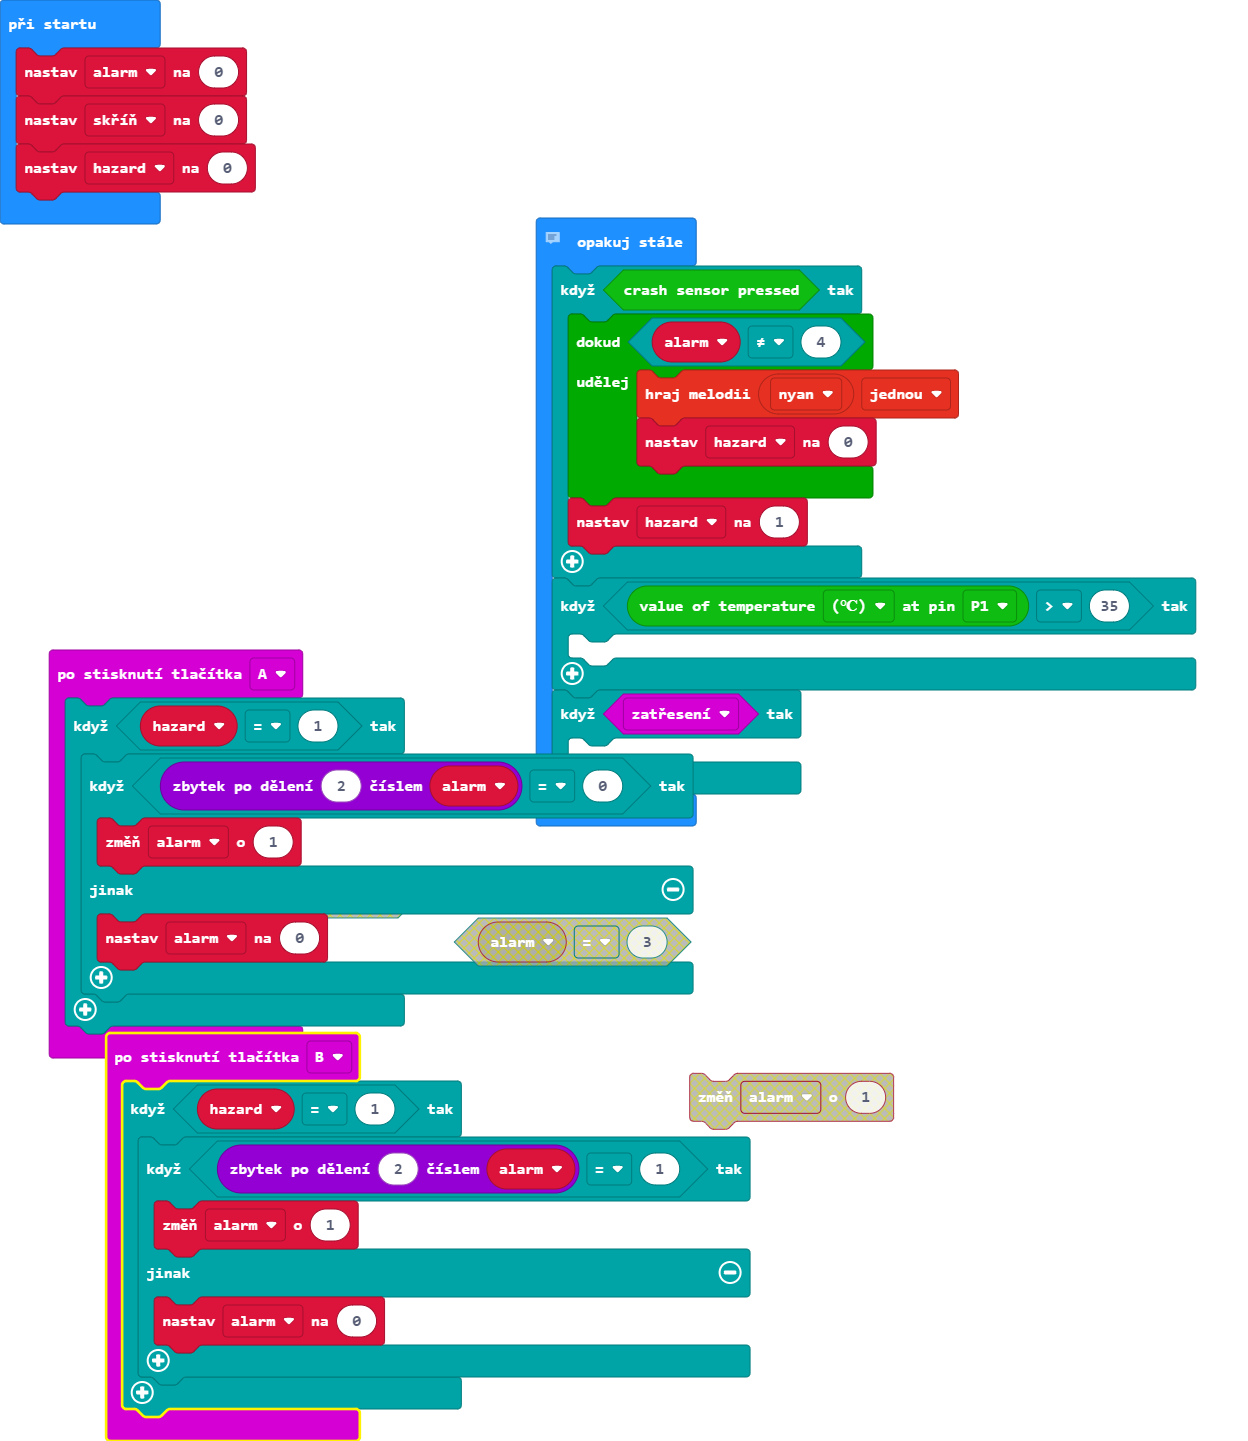
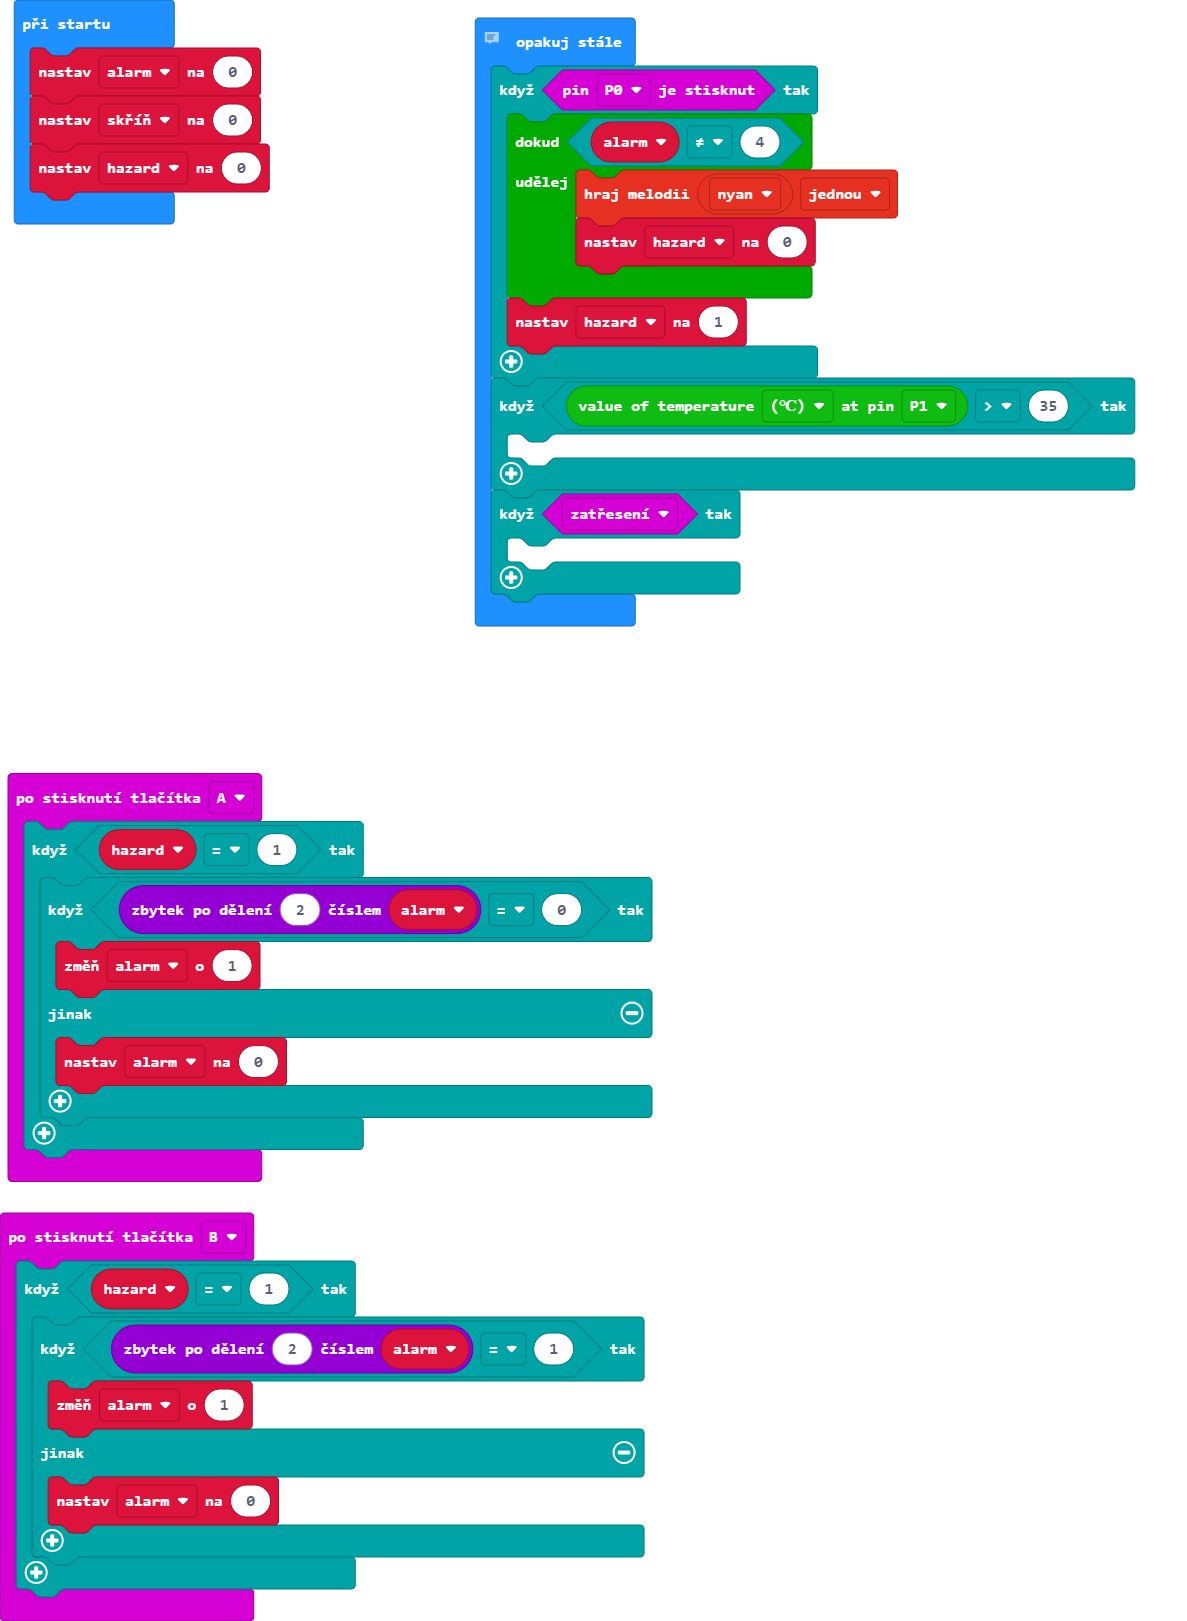
Aktualizovat main.blocks, main.ts

diff --git a/main.ts b/main.ts
@@ -24,7 +24,7 @@ hazard = 0
 // ALARMY
 // 
 basic.forever(function () {
-    if (smarthome.crashSensor()) {
+    if (input.pinIsPressed(TouchPin.P0)) {
         while (alarm != 4) {
             music.startMelody(music.builtInMelody(Melodies.Nyan), MelodyOptions.Once)
             hazard = 0
